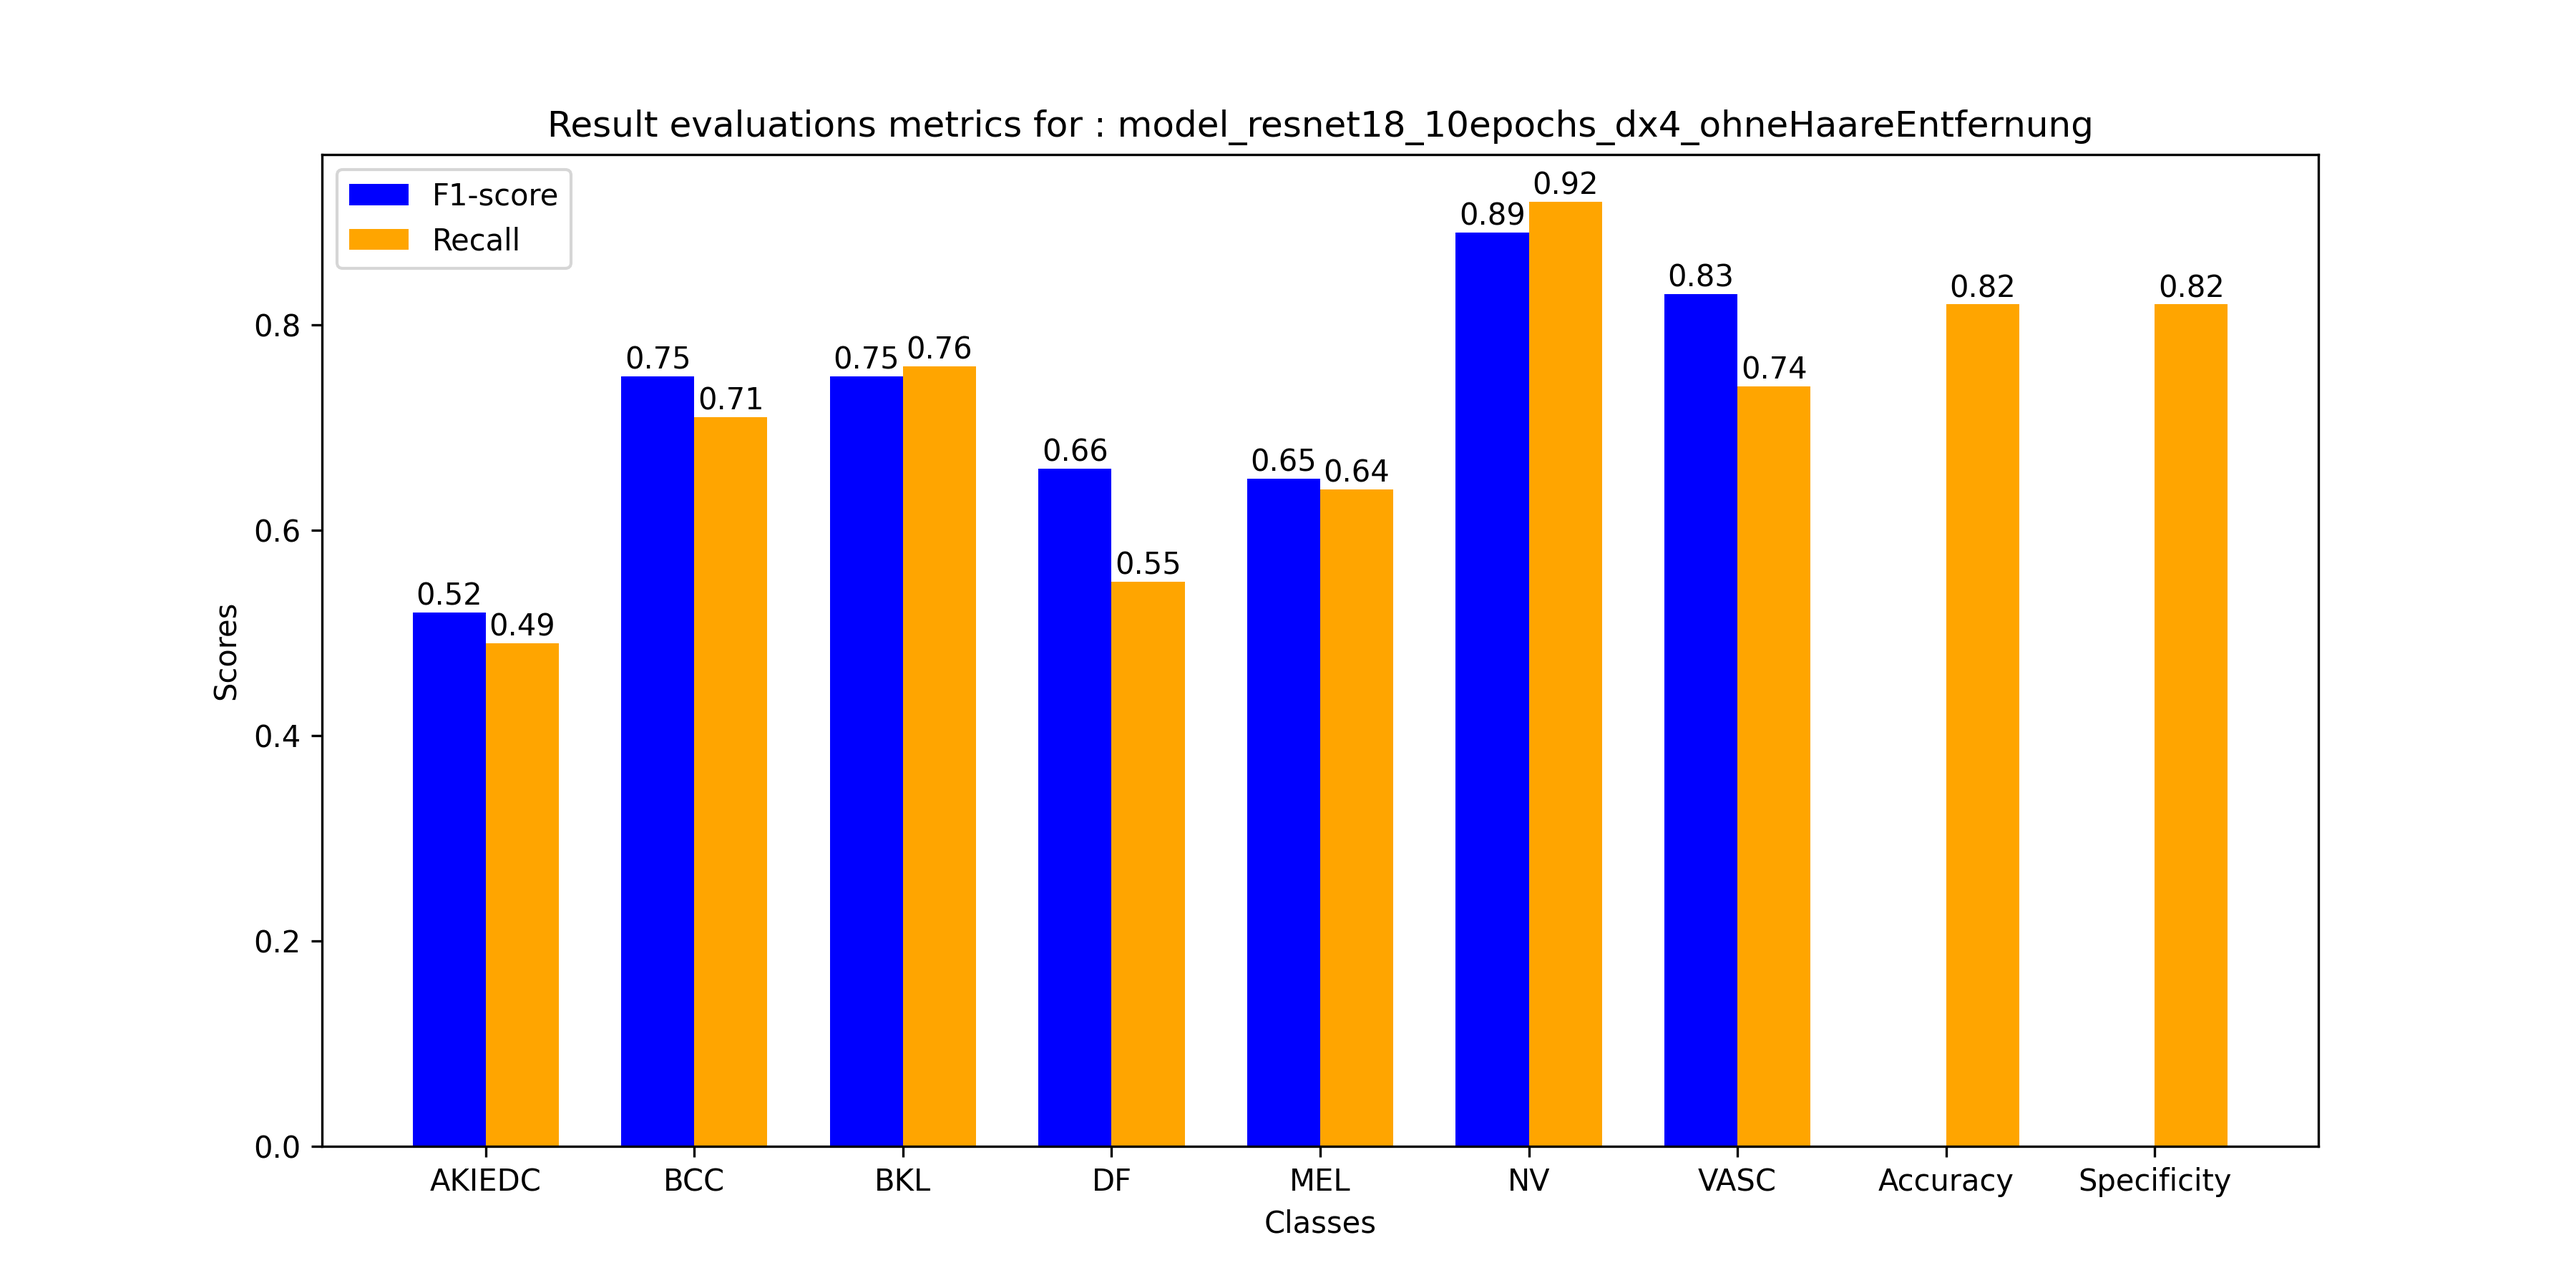
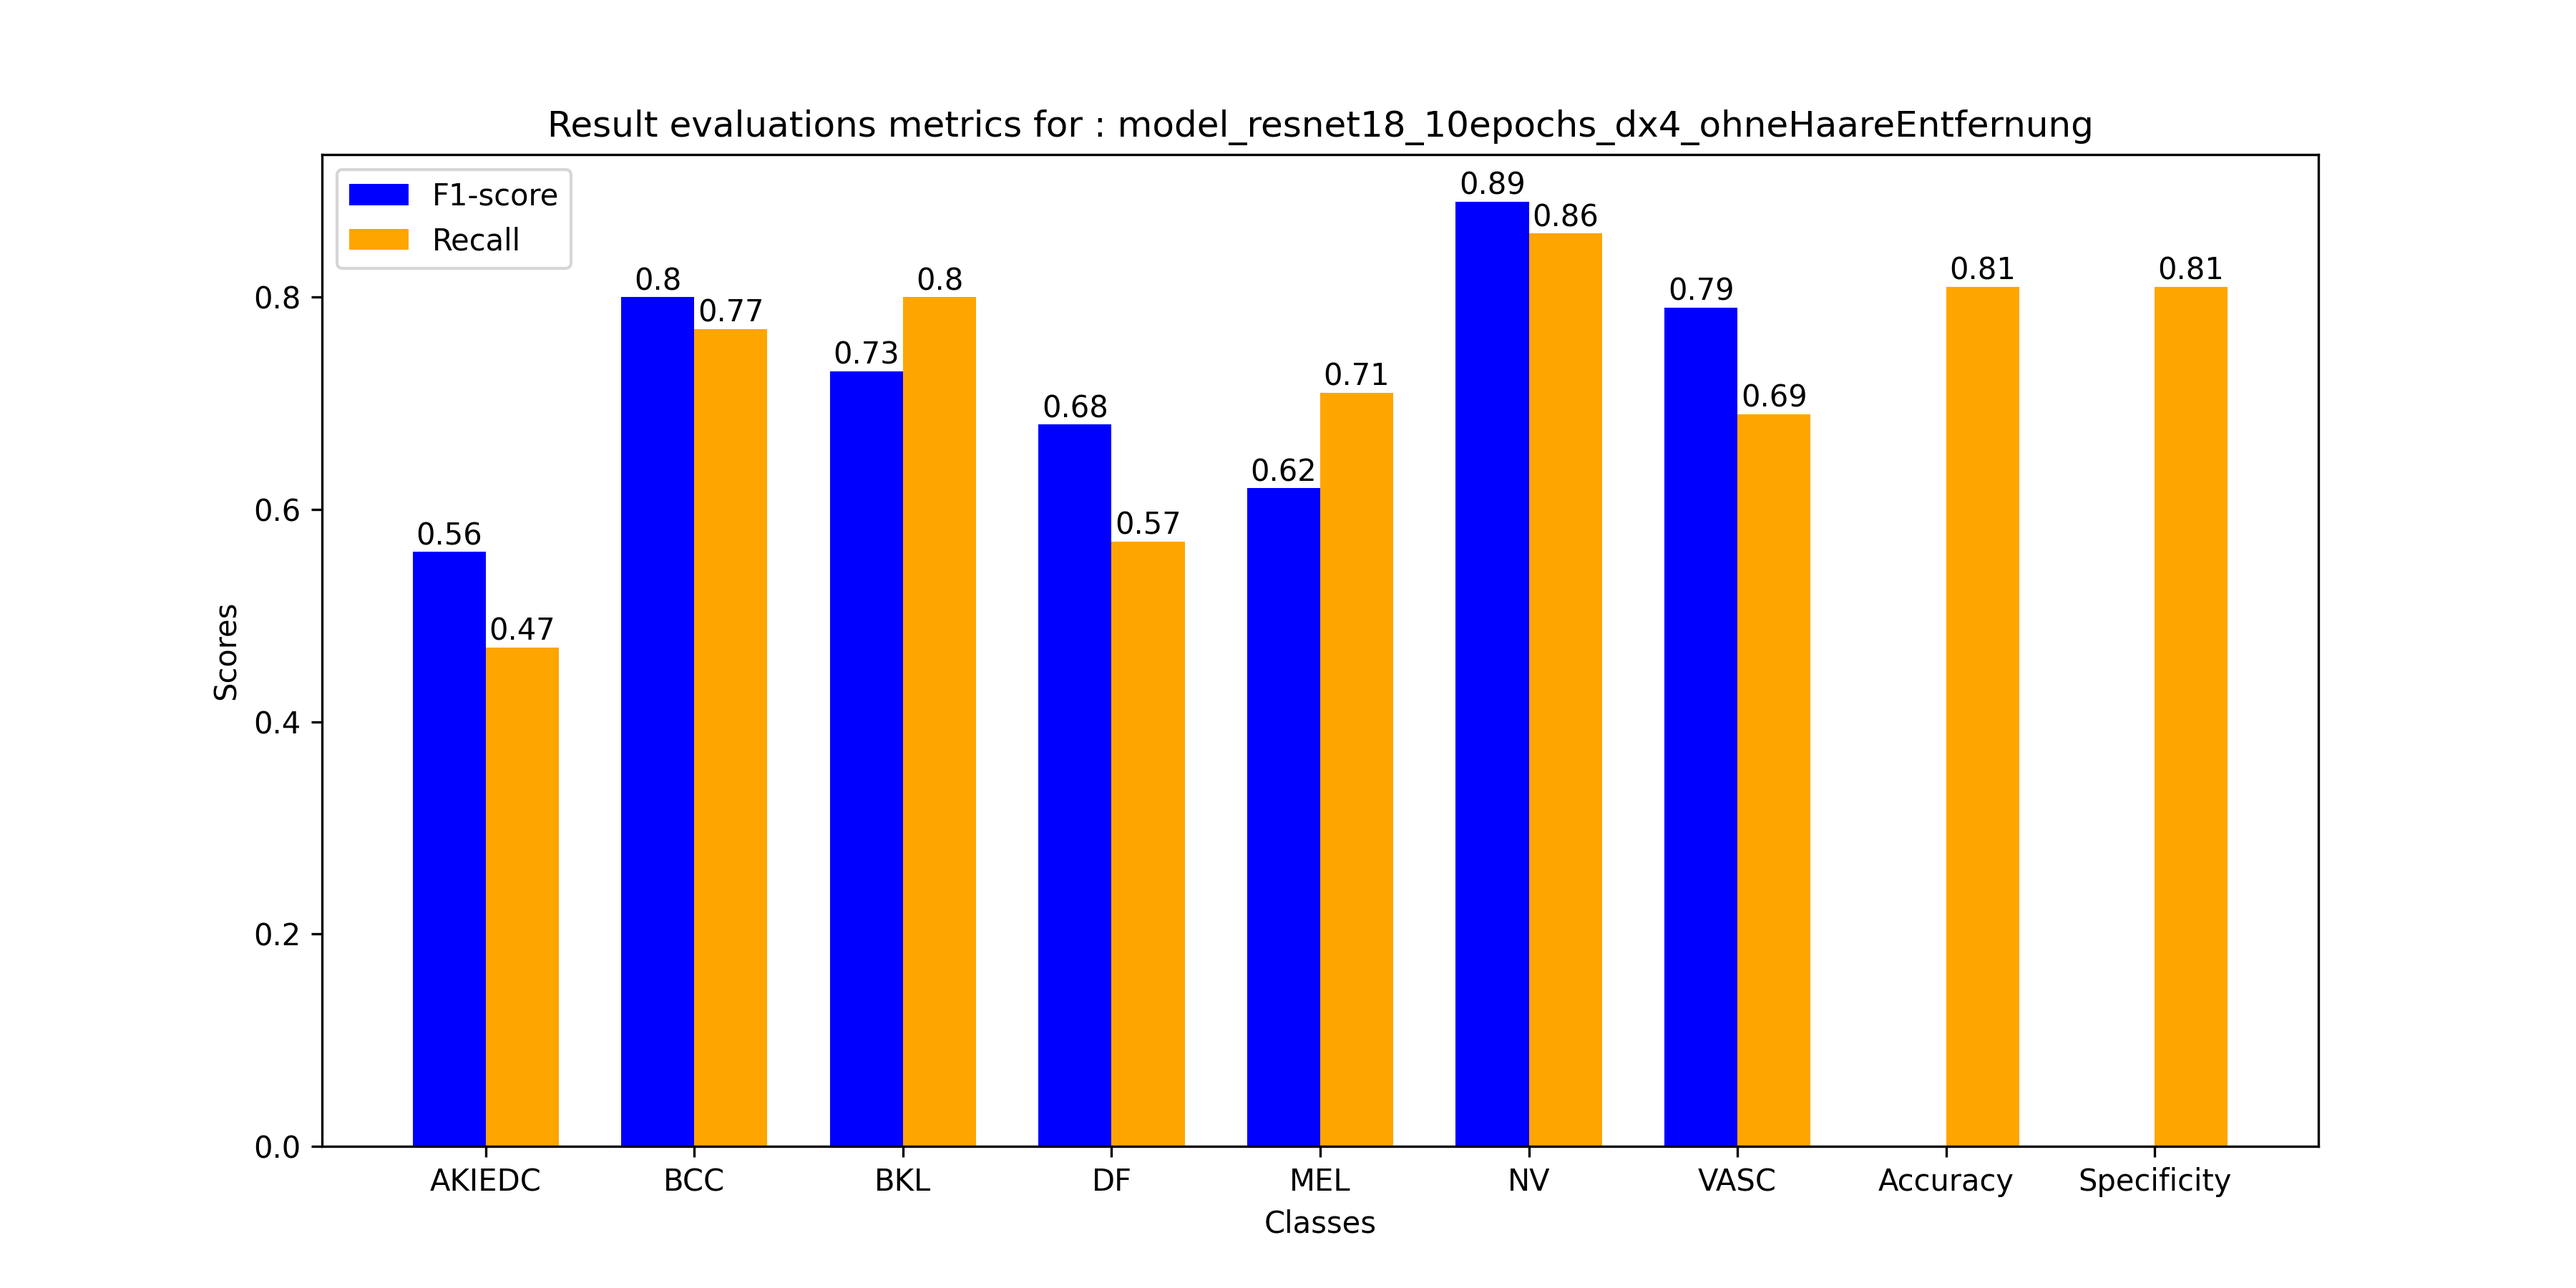
adding metrics

diff --git a/metricsCalc.py b/metricsCalc.py
@@ -14,10 +14,10 @@ model_ft = models.resnet18(pretrained=True)
 num_ftrs = model_ft.fc.in_features
 model_ft.fc = nn.Linear(num_ftrs, 7) # chnage if it's another last layer type 
 
-fileNameModel = "model_resnet18_25epochs_dx4_ohneHaareEntfernung"
+fileNameModel = "model_resnet18_10epochs_dx4_ohneHaareEntfernung"
 
 # load the model 
-model_ft.load_state_dict(torch.load(r"D:\PML\Project_PML\output\model\model_resnet18_25epochs_dx4_ohneHaareEntfernung\model.pth"))
+model_ft.load_state_dict(torch.load(r"D:\PML\Project_PML\output\model\model_resnet18_10epochs_dx4_ohneHaareEntfernung\model.pth"))
 model_ft = model_ft.to(device)
 model_ft.eval()
 
